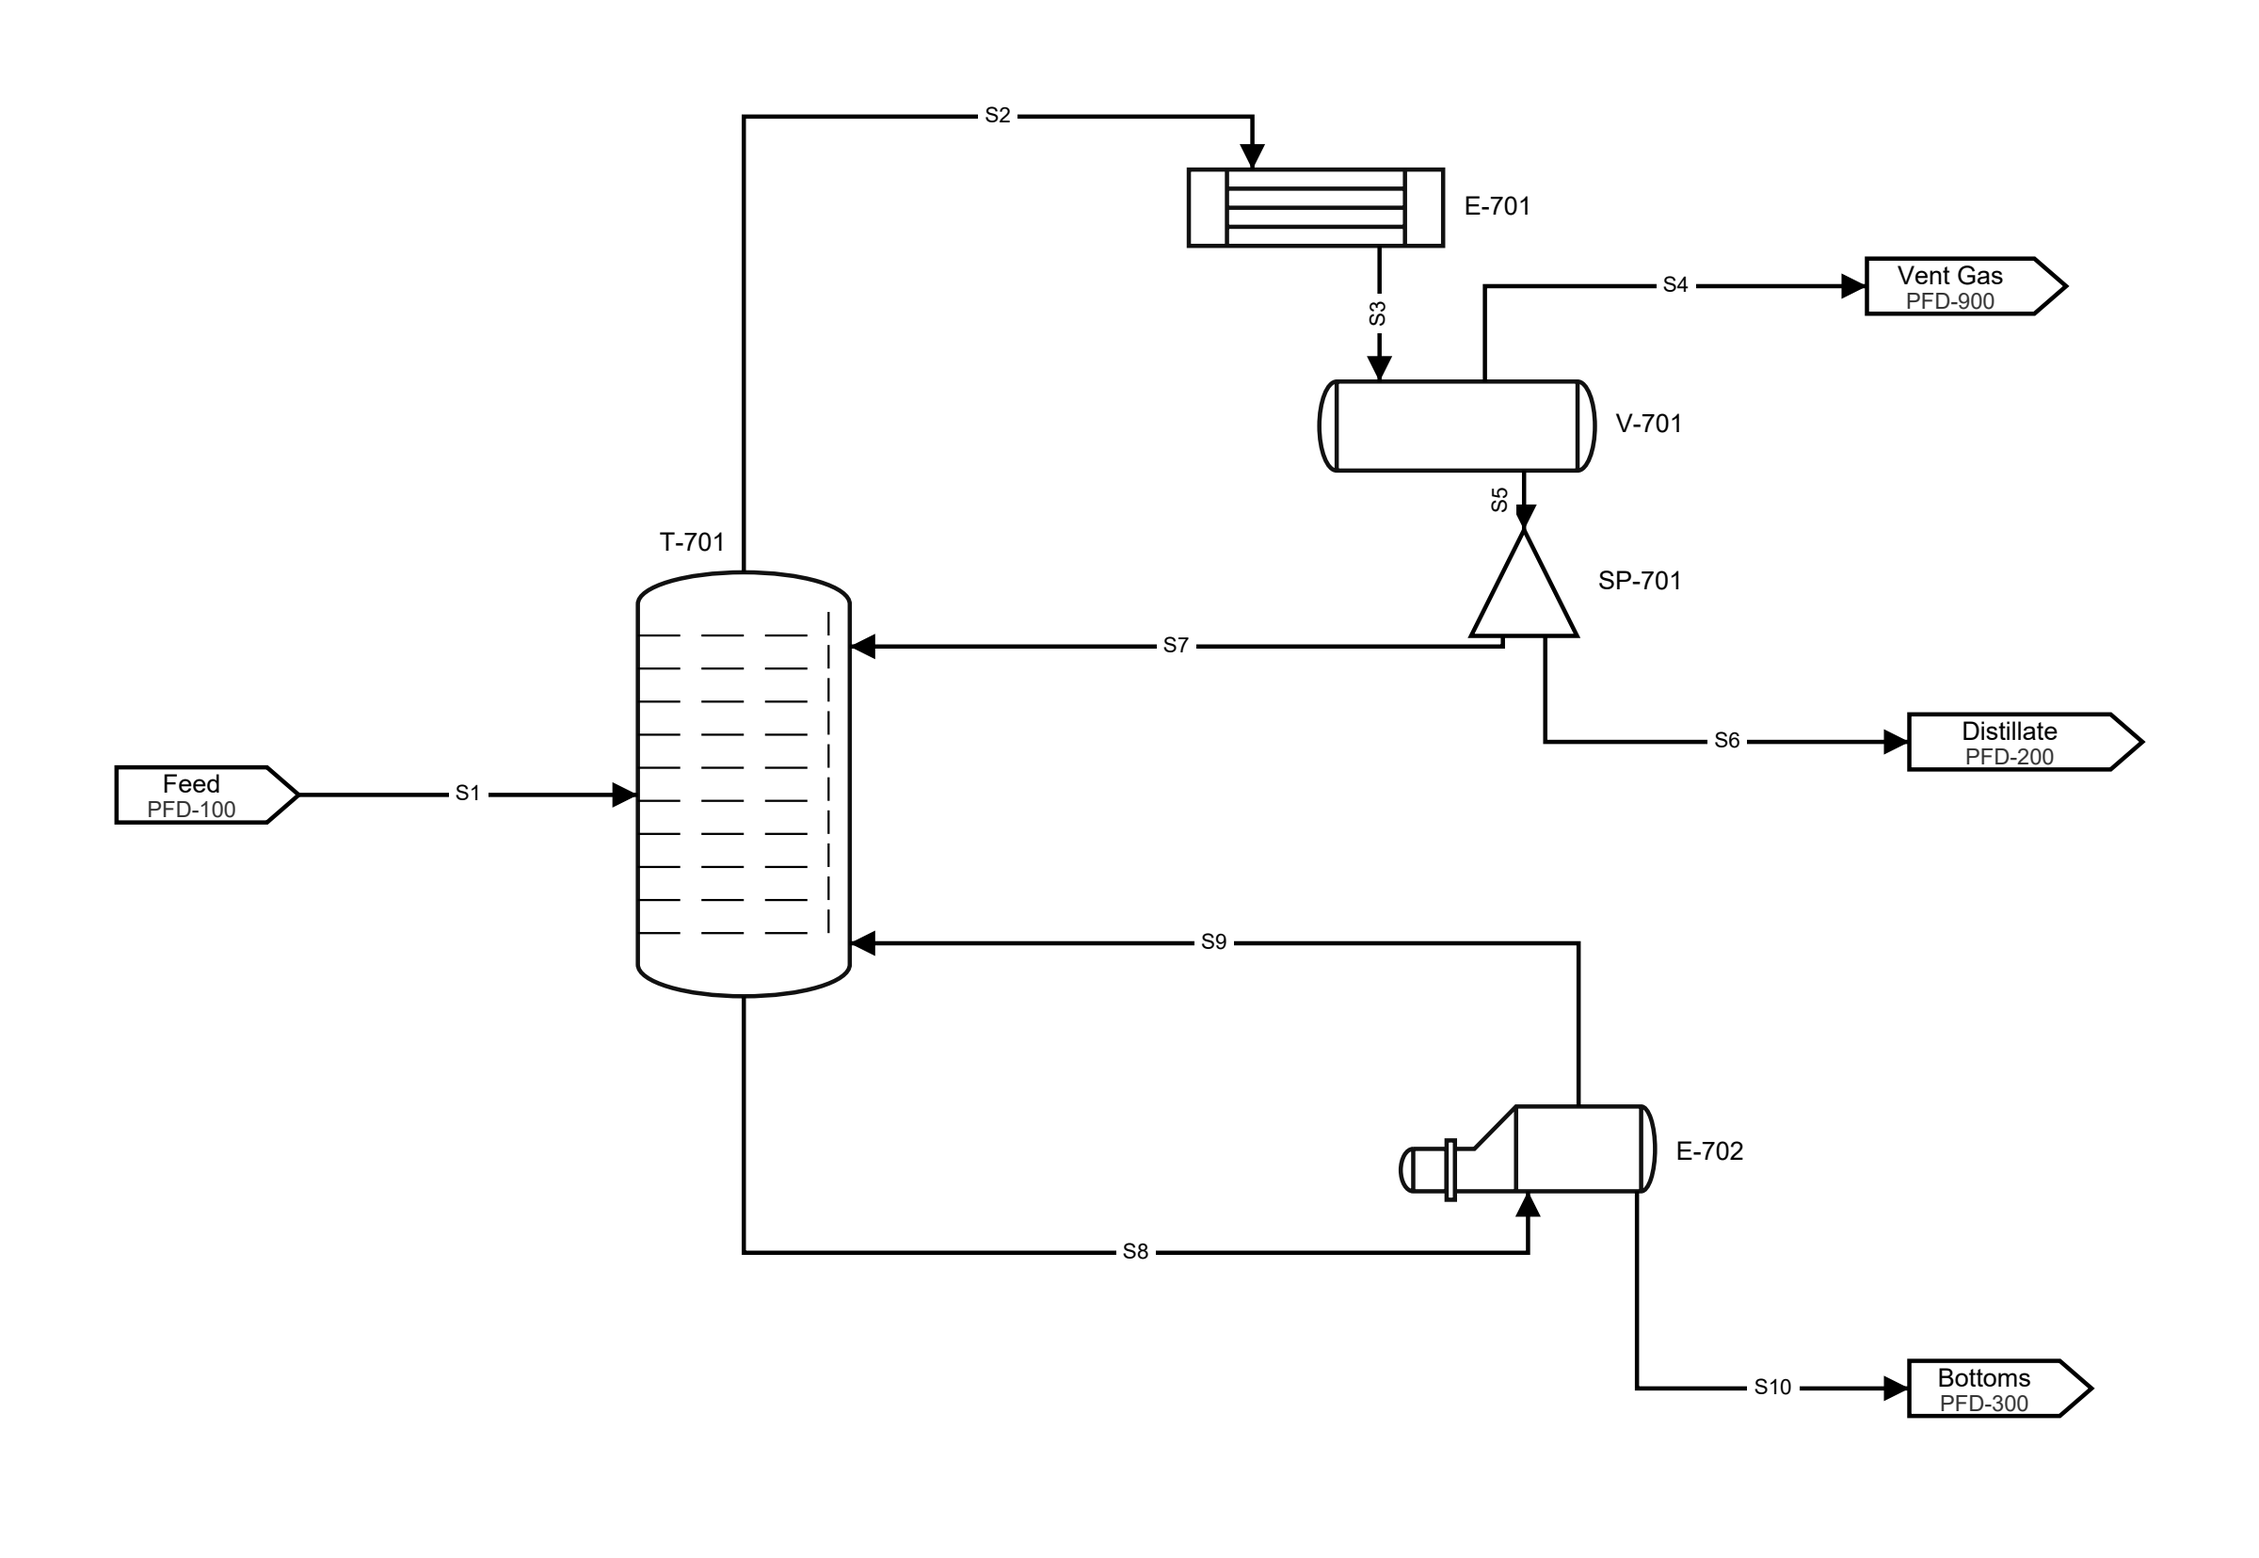
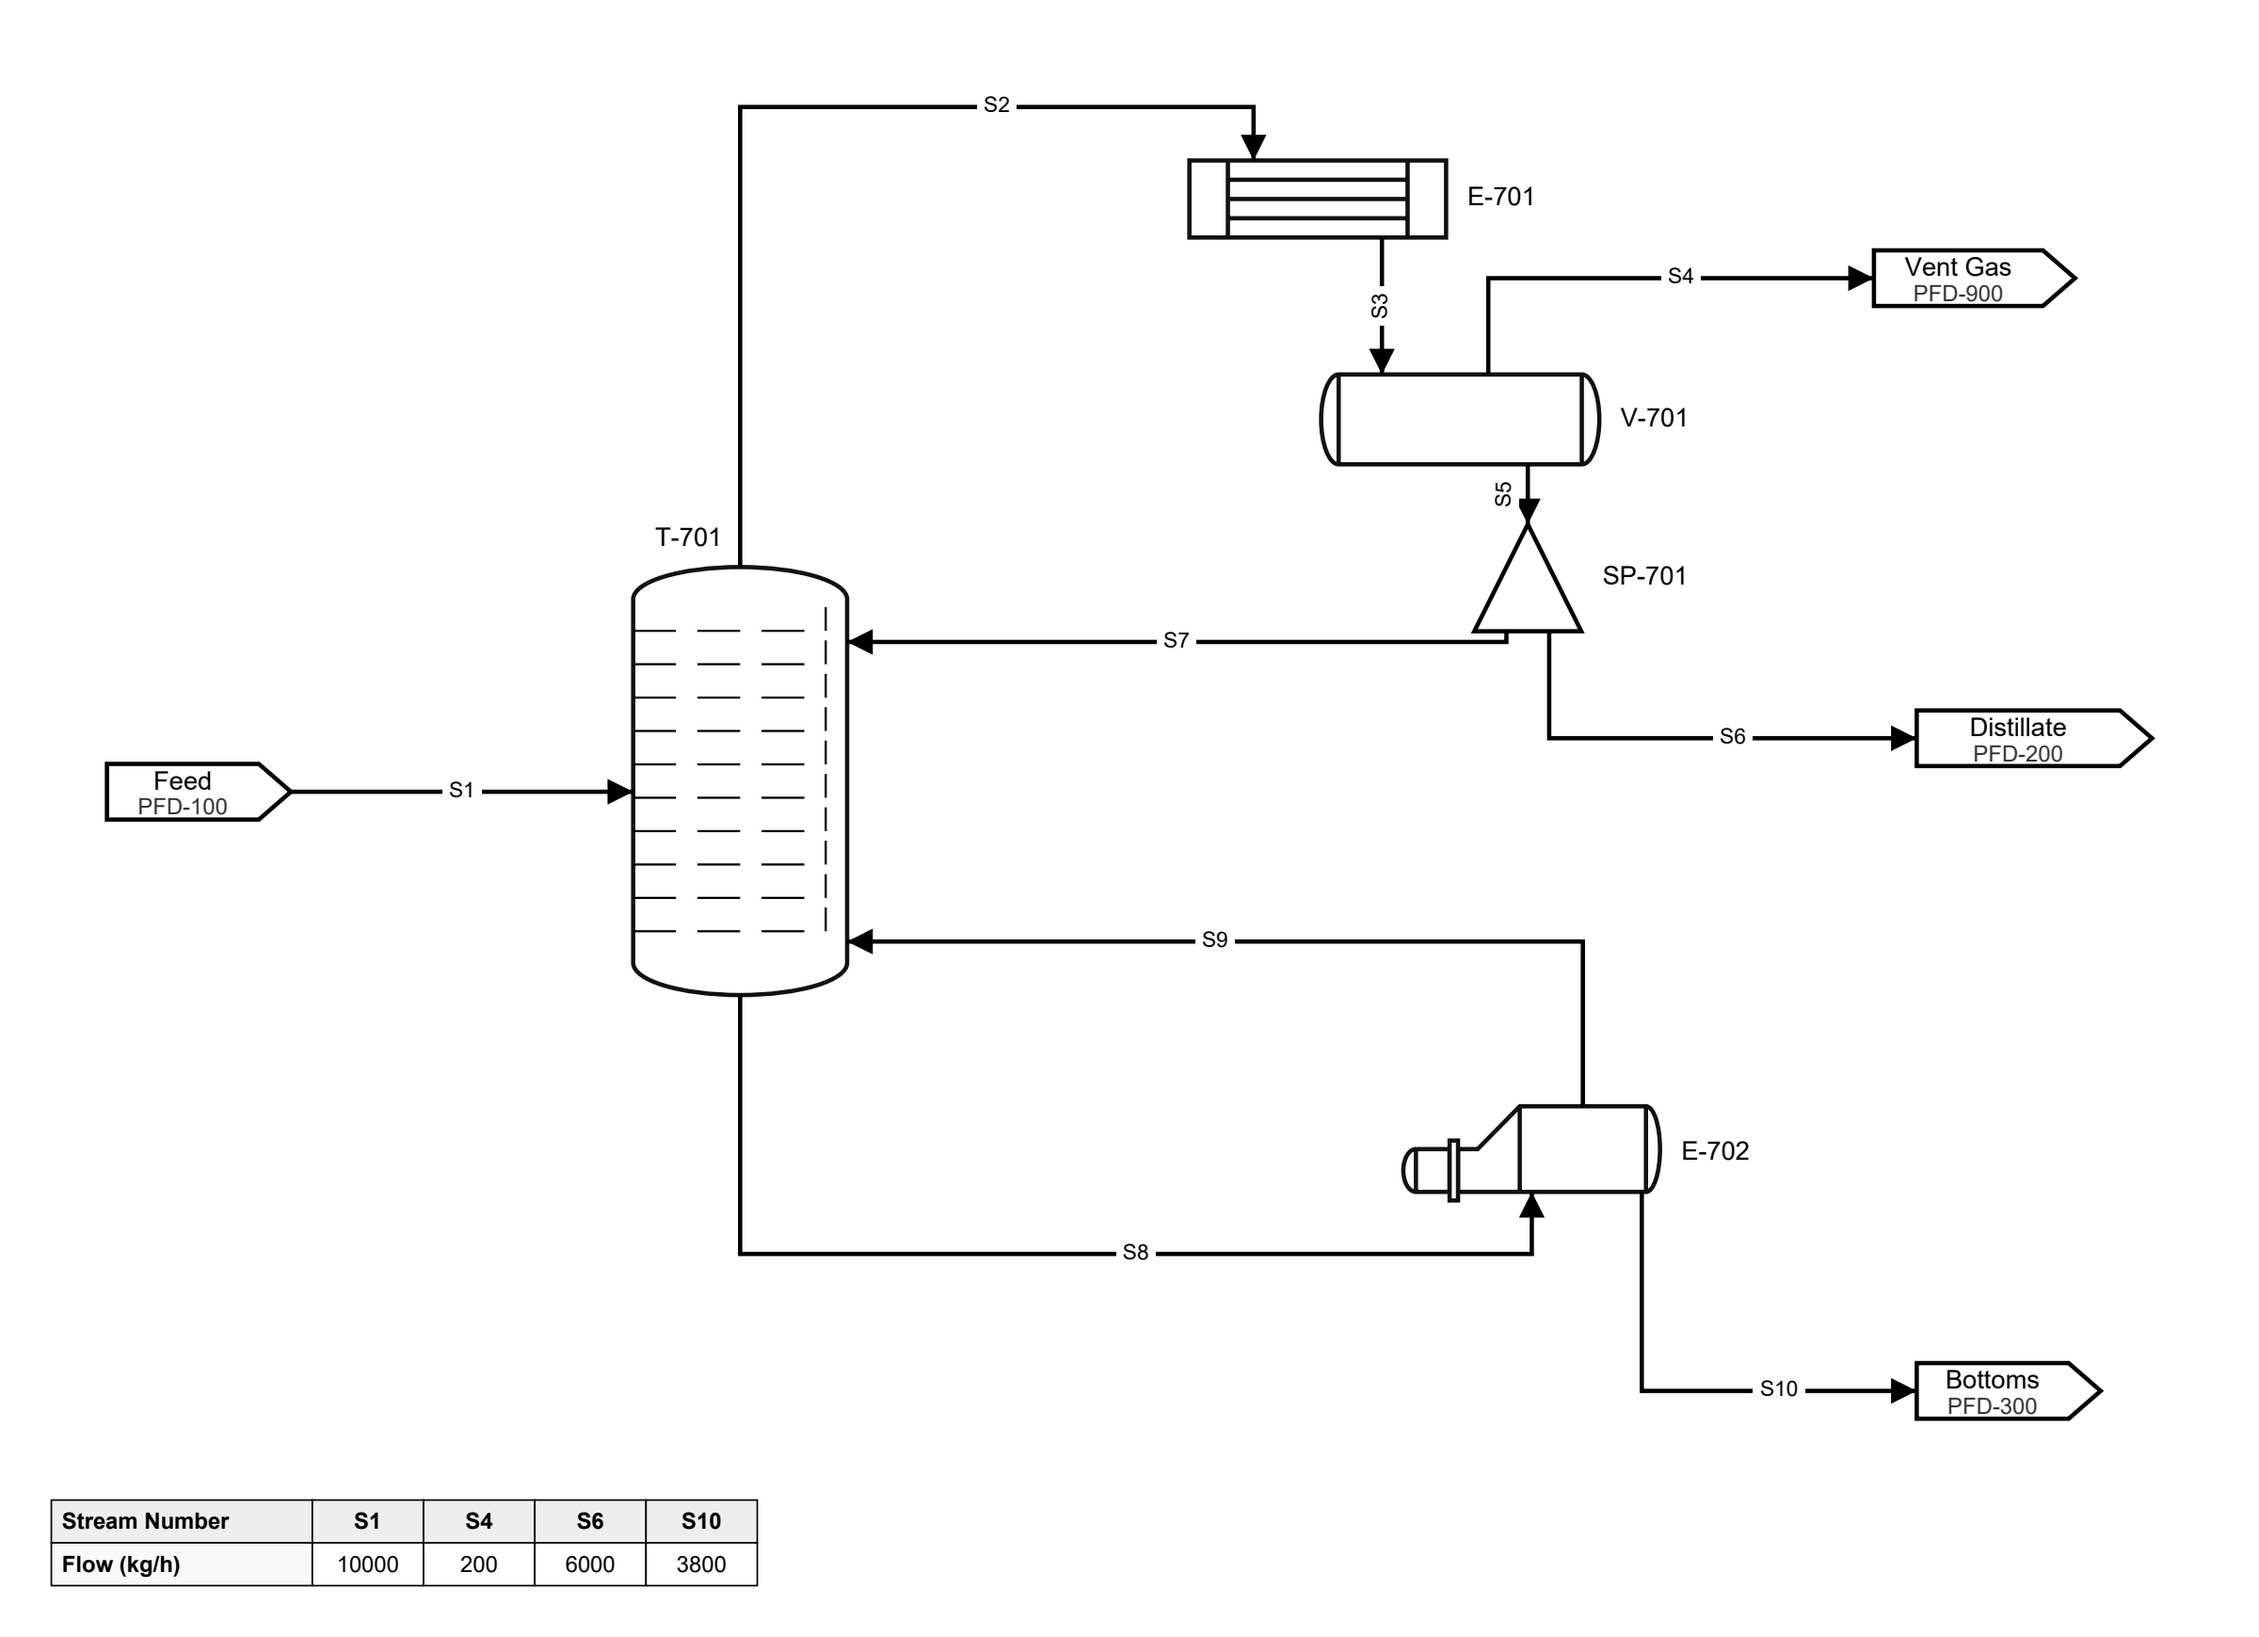
fix(examples): tabulate the column overhead system's boundary streams
06_column_reflux raised stream-table-missing (#410). A coherent split of
one feed: the overhead vent, the distillate and the bottoms add back up
to it. Render with show_stream_table=True to report it.

diff --git a/tests/test_golden.py b/tests/test_golden.py
@@ -423,16 +423,20 @@ def _column_reflux() -> Flowsheet:
     reb.pin(x=660, y=512)
     bot.pin(x=900, y=645)
 
-    fs.connect(feed.outlet, col.feed)
+    feed_in = fs.connect(feed.outlet, col.feed)
     fs.connect(col.overhead, cond.shell_in)
     fs.connect(cond.shell_out, drum.inlet)
-    fs.connect(drum.vent, vent.inlet)
+    vent_out = fs.connect(drum.vent, vent.inlet)
     fs.connect(drum.outlet, split.inlet)
-    fs.connect(split.out_1, dist.inlet)
+    dist_out = fs.connect(split.out_1, dist.inlet)
     fs.connect(split.out_2, col.reflux_in, draw_as_recycle=True)
     fs.connect(col.bottoms, reb.shell_in)
     fs.connect(reb.shell_out, col.boilup_in, draw_as_recycle=True)
-    fs.connect(reb.bottoms, bot.inlet)
+    bot_out = fs.connect(reb.bottoms, bot.inlet)
+    feed_in.properties = {"Flow (kg/h)": "10000"}
+    vent_out.properties = {"Flow (kg/h)": "200"}
+    dist_out.properties = {"Flow (kg/h)": "6000"}
+    bot_out.properties = {"Flow (kg/h)": "3800"}
     return fs
 
 
@@ -4121,7 +4125,7 @@ SCENARIOS = {
     "03_distillation_train": (_distillation_train, {"show_stream_table": True, "border": "zone"}),
     "04_control_loop": (_control_loop, {"show_stream_table": True}),
     "05_reactor_recycle": (_reactor_recycle, {"show_stream_table": True}),
-    "06_column_reflux": (_column_reflux, {}),
+    "06_column_reflux": (_column_reflux, {"show_stream_table": True}),
     "07_metering_skid": (_metering_skid, {}),
     "08_from_data": (_from_data, {"show_stream_table": True, "border": "zone"}),
     # 09 is issued as a P&ID -- line numbers, "P&ID-1009" -- and is the one

diff --git a/examples/06_column_reflux.py b/examples/06_column_reflux.py
@@ -94,20 +94,27 @@ def main():
     bot.pin(x=900, y=645)                              # below the kettle's draw
 
     # --- Connections --------------------------------------------------
-    fs.connect(feed.outlet, col.feed)
+    feed_in = fs.connect(feed.outlet, col.feed)
 
     fs.connect(col.overhead, cond.shell_in)
     fs.connect(cond.shell_out, drum.inlet)
-    fs.connect(drum.vent, vent.inlet)
+    vent_out = fs.connect(drum.vent, vent.inlet)
     fs.connect(drum.outlet, split.inlet)
-    fs.connect(split.out_1, dist.inlet)
+    dist_out = fs.connect(split.out_1, dist.inlet)
     fs.connect(split.out_2, col.reflux_in, draw_as_recycle=True)
 
     fs.connect(col.bottoms, reb.shell_in)
     fs.connect(reb.shell_out, col.boilup_in, draw_as_recycle=True)
-    fs.connect(reb.bottoms, bot.inlet)
+    bot_out = fs.connect(reb.bottoms, bot.inlet)
 
-    fs.render(out("column_reflux.svg"))
+    # A coherent split of one feed: the overhead vent, the distillate
+    # and the bottoms add back up to it.
+    feed_in.properties = {"Flow (kg/h)": "10000"}
+    vent_out.properties = {"Flow (kg/h)": "200"}
+    dist_out.properties = {"Flow (kg/h)": "6000"}
+    bot_out.properties = {"Flow (kg/h)": "3800"}
+
+    fs.render(out("column_reflux.svg"), show_stream_table=True)
     print("Generated column_reflux.svg")
 
 
